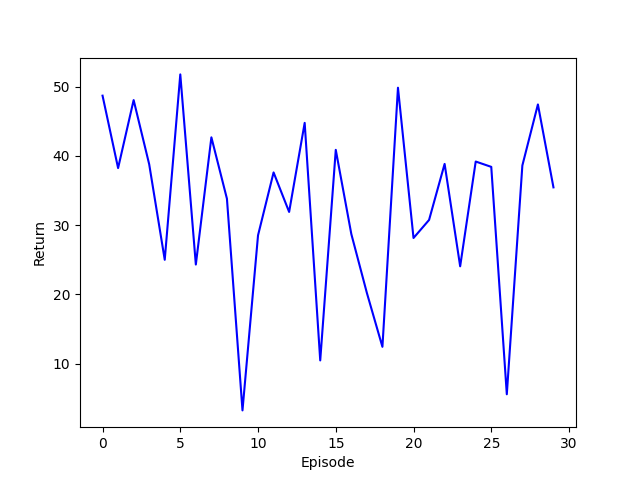
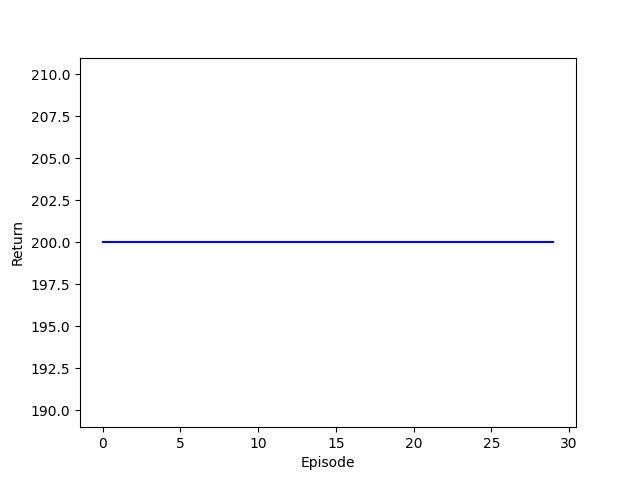
dqn agent rede neural maior

diff --git a/rede neural maior/dqn_agent.py b/rede neural maior/dqn_agent.py
@@ -1,0 +1,155 @@
+import random
+import numpy as np
+from collections import deque
+from tensorflow.keras import models, layers, optimizers, activations, losses
+
+
+class DQNAgent:
+    """
+    Represents a Deep Q-Networks (DQN) agent.
+    """
+    def __init__(self, state_size, action_size, gamma=0.95, epsilon=0.5, epsilon_min=0.01, epsilon_decay=0.98, learning_rate=0.001, buffer_size=4098):
+        """
+        Creates a Deep Q-Networks (DQN) agent.
+
+        :param state_size: number of dimensions of the feature vector of the state.
+        :type state_size: int.
+        :param action_size: number of actions.
+        :type action_size: int.
+        :param gamma: discount factor.
+        :type gamma: float.
+        :param epsilon: epsilon used in epsilon-greedy policy.
+        :type epsilon: float.
+        :param epsilon_min: minimum epsilon used in epsilon-greedy policy.
+        :type epsilon_min: float.
+        :param epsilon_decay: decay of epsilon per episode.
+        :type epsilon_decay: float.
+        :param learning_rate: learning rate of the action-value neural network.
+        :type learning_rate: float.
+        :param buffer_size: size of the experience replay buffer.
+        :type buffer_size: int.
+        """
+        self.state_size = state_size
+        self.action_size = action_size
+        self.replay_buffer = deque(maxlen=buffer_size)  # giving a maximum length makes this buffer forget old memories
+        self.gamma = gamma
+        self.epsilon = epsilon
+        self.epsilon_min = epsilon_min
+        self.epsilon_decay = epsilon_decay
+        self.learning_rate = learning_rate
+        self.model = self.make_model()
+
+    def make_model(self):
+        """
+        Makes the action-value neural network model using Keras.
+
+        :return: action-value neural network.
+        :rtype: Keras' model.
+        """
+        # raise NotImplementedError('You need to implement the neural network model.')  # Remove this line
+        # Todo: Uncomment the lines below
+
+        model = models.Sequential()
+        # Todo: implement Keras' model
+
+        # model.add(layers.Dense(units=24,activation=activations.relu, input_dim = self.state_size ))
+        # model.add(layers.Dense(units=24,activation=activations.relu))
+        # model.add(layers.Dense(units=self.action_size,activation=activations.linear))
+        # model.compile(loss=losses.mse, optimizer=optimizers.Adam(lr=self.learning_rate))
+
+        model.add(layers.Dense(units=24,activation=activations.relu, input_dim = self.state_size ))
+        model.add(layers.Dense(48, activation='relu'))
+        model.add(layers.Dense(96, activation='relu'))
+        model.add(layers.Dense(48, activation='relu'))
+        model.add(layers.Dense(24, activation='relu'))
+        model.add(layers.Dense(2,activation='relu'))
+        model.compile(loss='mse', optimizer=optimizers.Adam(lr=self.learning_rate))
+
+        model.summary()
+        return model
+
+    def act(self, state):
+        """
+        Chooses an action using an epsilon-greedy policy.
+
+        :param state: current state.
+        :type state: NumPy array with dimension (1, 2).
+        :return: chosen action.
+        :rtype: int.
+        """
+        # Todo: implement epsilon-greey action selection.
+        q = self.model.predict(state)
+        p = np.random.uniform(0,1)
+
+        if p >= self.epsilon:
+            return np.argmax(q[0])
+        else:
+            return np.random.randint(0,q.shape[1])
+
+    def append_experience(self, state, action, reward, next_state, done):
+        """
+        Appends a new experience to the replay buffer (and forget an old one if the buffer is full).
+
+        :param state: state.
+        :type state: NumPy array with dimension (1, 2).
+        :param action: action.
+        :type action: int.
+        :param reward: reward.
+        :type reward: float.
+        :param next_state: next state.
+        :type next_state: NumPy array with dimension (1, 2).
+        :param done: if the simulation is over after this experience.
+        :type done: bool.
+        """
+        self.replay_buffer.append((state, action, reward, next_state, done))
+
+    def replay(self, batch_size):
+        """
+        Learns from memorized experience.
+
+        :param batch_size: size of the minibatch taken from the replay buffer.
+        :type batch_size: int.
+        :return: loss computed during the neural network training.
+        :rtype: float.
+        """
+        minibatch = random.sample(self.replay_buffer, batch_size)
+        states, targets = [], []
+        for state, action, reward, next_state, done in minibatch:
+            target = self.model.predict(state)
+            if not done:
+                target[0][action] = reward + self.gamma * np.max(self.model.predict(next_state)[0])
+            else:
+                target[0][action] = reward
+            # Filtering out states and targets for training
+            states.append(state[0])
+            targets.append(target[0])
+        history = self.model.fit(np.array(states), np.array(targets), epochs=1, verbose=0)
+        # Keeping track of loss
+        loss = history.history['loss'][0]
+        return loss
+
+    def load(self, name):
+        """
+        Loads the neural network's weights from disk.
+
+        :param name: model's name.
+        :type name: str.
+        """
+        self.model.load_weights(name)
+
+    def save(self, name):
+        """
+        Saves the neural network's weights to disk.
+
+        :param name: model's name.
+        :type name: str.
+        """
+        self.model.save_weights(name)
+
+    def update_epsilon(self):
+        """
+        Updates the epsilon used for epsilon-greedy action selection.
+        """
+        self.epsilon *= self.epsilon_decay
+        if self.epsilon < self.epsilon_min:
+            self.epsilon = self.epsilon_min

diff --git a/evaluate_dqn.py b/evaluate_dqn.py
@@ -50,7 +50,7 @@ for episodes in range(1, NUM_EPISODES + 1):
     state = np.reshape(state, [1, state_size])
     # Cumulative reward is the return since the beginning of the episode
     cumulative_reward = 0.0
-    for time in range(1, 500):
+    for time in range(1, 201):
         # Render the environment for visualization
         env.render()
         # Select action
@@ -63,11 +63,13 @@ for episodes in range(1, NUM_EPISODES + 1):
         reward = reward_engineering(state[0], action, reward, next_state[0], done)
         state = next_state
         # Accumulate reward
-        cumulative_reward = agent.gamma * cumulative_reward + reward
+        # cumulative_reward = agent.gamma * cumulative_reward + reward
+        cumulative_reward += 1
         if done:
             print("episode: {}/{}, time: {}, score: {:.6}, epsilon: {:.3}"
                   .format(episodes, NUM_EPISODES, time, cumulative_reward, agent.epsilon))
             break
+    print(f"episode {episodes}")
     return_history.append(cumulative_reward)
 
 # Prints mean return
@@ -78,32 +80,33 @@ plt.plot(return_history, 'b')
 plt.xlabel('Episode')
 plt.ylabel('Return')
 plt.savefig('dqn_evaluation.' + fig_format, fig_format=fig_format)
-
-# Plots the greedy policy learned by DQN
-plt.figure()
-position = np.arange(-1.2, 0.5 + 0.025, 0.05)
-velocity = np.arange(-0.07, 0.07 + 0.0025, 0.005)
-push_left = []
-none = []
-push_right = []
-for j in range(len(position)):
-    for k in range(len(velocity)):
-        pos = position[j]
-        vel = velocity[k]
-        state = np.array([[pos, vel]])
-        action = agent.act(state)
-        if action == 0:
-            push_left.append(state[0])
-        elif action == 1:
-            none.append(state[0])
-        else:
-            push_right.append(state[0])
-plot_points(push_left, 'b.')
-plot_points(none, 'r.')
-plot_points(push_right, 'g.')
-plt.xlabel('Position')
-plt.ylabel('Velocity')
-plt.title('Agent Policy')
-plt.legend(['Left', 'None', 'Right'])
-plt.savefig('agent_decision.' + fig_format, format=fig_format)
 plt.show()
+
+# # Plots the greedy policy learned by DQN
+# plt.figure()
+# position = np.arange(-1.2, 0.5 + 0.025, 0.05)
+# velocity = np.arange(-0.07, 0.07 + 0.0025, 0.005)
+# push_left = []
+# none = []
+# push_right = []
+# for j in range(len(position)):
+#     for k in range(len(velocity)):
+#         pos = position[j]
+#         vel = velocity[k]
+#         state = np.array([[pos, vel]])
+#         action = agent.act(state)
+#         if action == 0:
+#             push_left.append(state[0])
+#         elif action == 1:
+#             none.append(state[0])
+#         else:
+#             push_right.append(state[0])
+# plot_points(push_left, 'b.')
+# plot_points(none, 'r.')
+# plot_points(push_right, 'g.')
+# plt.xlabel('Position')
+# plt.ylabel('Velocity')
+# plt.title('Agent Policy')
+# plt.legend(['Left', 'None', 'Right'])
+# plt.savefig('agent_decision.' + fig_format, format=fig_format)
+# plt.show()

diff --git a/utils.py b/utils.py
@@ -36,4 +36,4 @@ def reward_engineering(state, action, reward, next_state, done):
 
     return reward
 
-
+    
